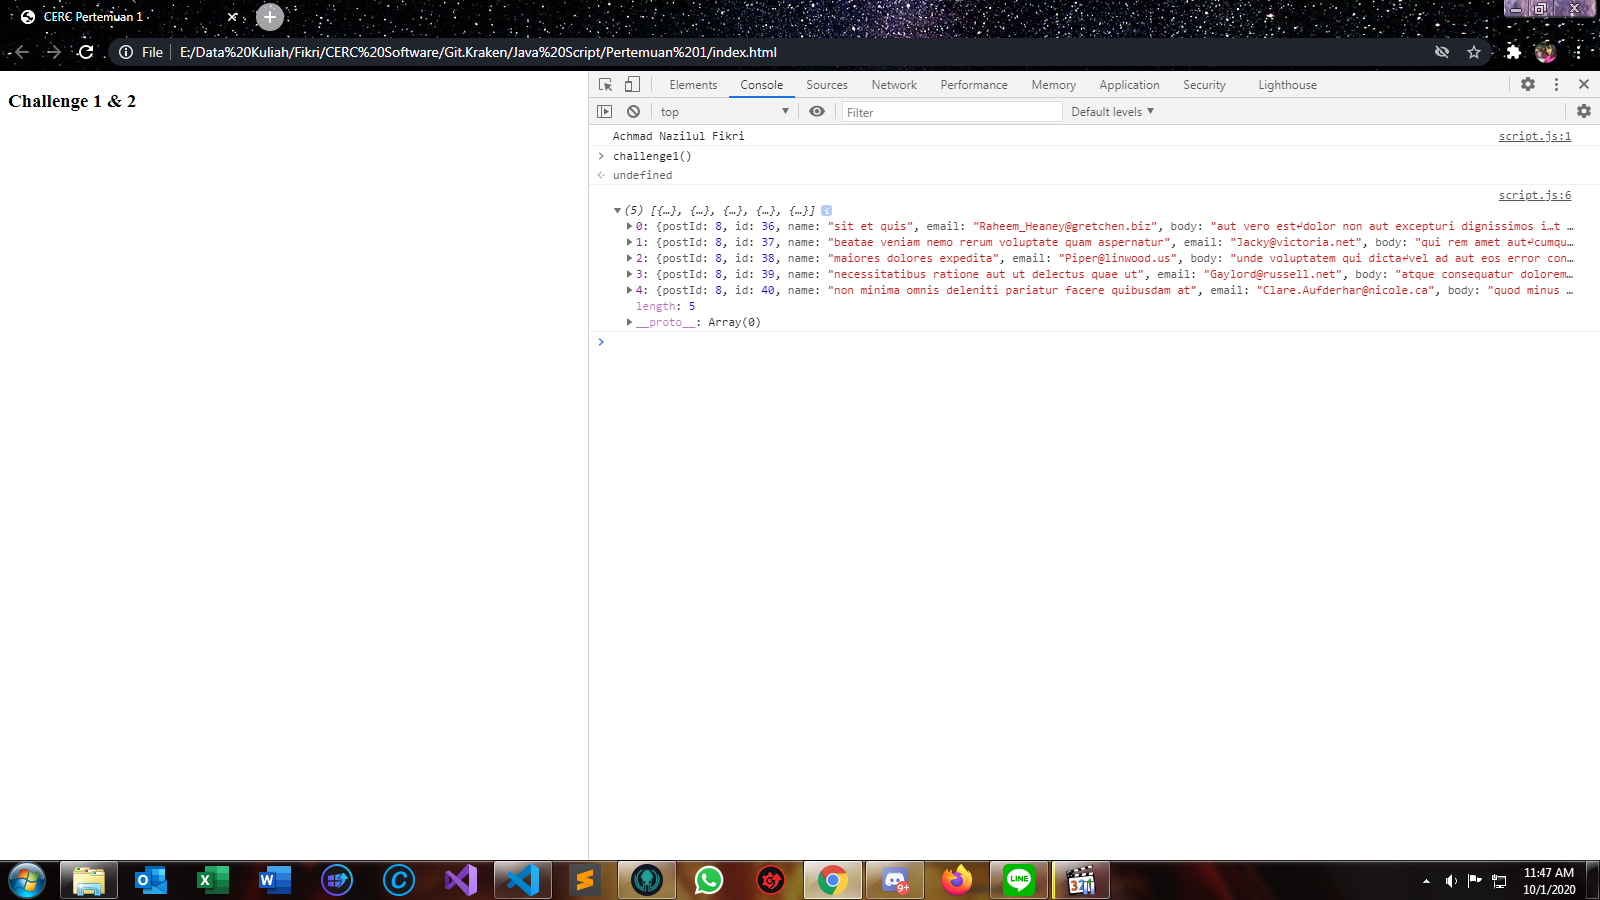
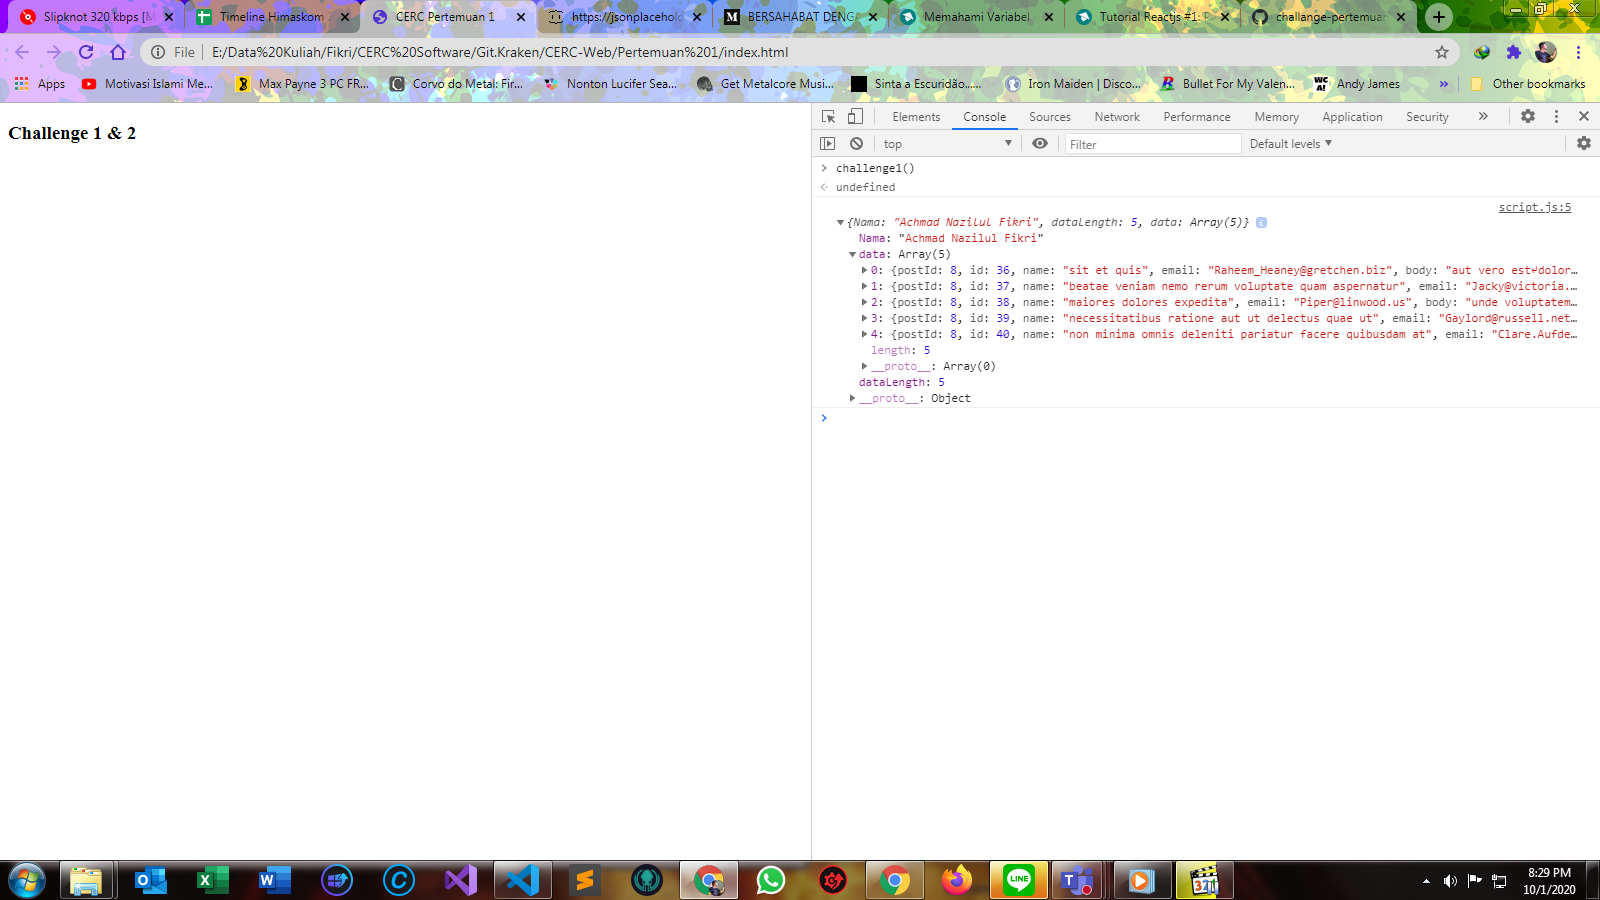
Revisi Challenge 1 & 2

diff --git a/CERC-Web/Pertemuan 1/script.js b/CERC-Web/Pertemuan 1/script.js
@@ -1,17 +1,29 @@
-console.log("Achmad Nazilul Fikri");
 const challenge1 = () => {
     axios
-        .get("https://jsonplaceholder.typicode.com/posts/8/comments")
+        .get("https://jsonplaceholder.typicode.com/comments")
         .then((res) => {
-            console.log(res.data);
+            const filterData = res.data.filter(value => {
+                return value.postId == 8;
+            });
+            console.log({
+                Nama: "Achmad Nazilul Fikri",
+                dataLength: Object.keys(filterData).length,
+                data: filterData,
+            });
         });
-
 };
 
 const challenge2 = () => {
     axios
-        .get("https://jsonplaceholder.typicode.com/posts?userId=8")
+        .get("https://jsonplaceholder.typicode.com/posts")
         .then((res) => {
-            console.log(res.data);
+            const filterData = res.data.filter( value =>{
+                return value.userId == 8;
+            });            
+            console.log({
+                Nama: "Achmad Nazilul Fikri",
+                dataLength: Object.keys(filterData).length,
+                data: filterData,
+            });
         });
 };
